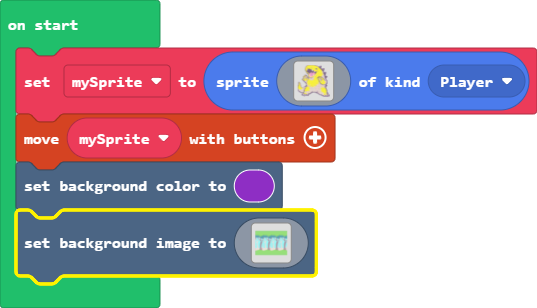
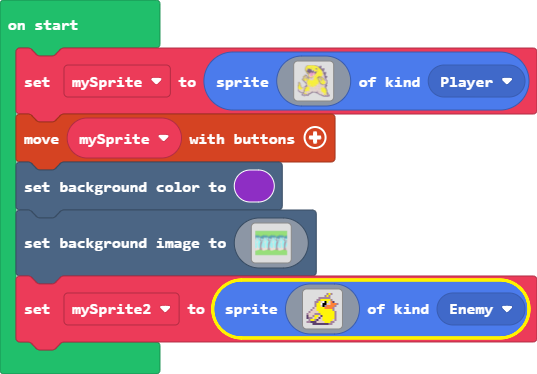
Update main.blocks, main.ts

diff --git a/main.ts b/main.ts
@@ -200,3 +200,21 @@ scene.setBackgroundImage(img`
     7777777777777777777777777777777777777777777777777777777777777777777777777777777777777777777777777777777777777777777777777777777777777777777777777777777777777777
     7777777777777777777777777777777777777777777777777777777777777777777777777777777777777777777777777777777777777777777777777777777777777777777777777777777777777777
     `)
+let mySprite2 = sprites.create(img`
+    . . . . . . . . . . b 5 b . . . 
+    . . . . . . . . . b 5 b . . . . 
+    . . . . . . b b b b b b . . . . 
+    . . . . . b b 5 5 5 5 5 b . . . 
+    . . . . b b 5 d 1 f 5 d 4 c . . 
+    . . . . b 5 5 1 f f d d 4 4 4 b 
+    . . . . b 5 5 d f b 4 4 4 4 b . 
+    . . . b d 5 5 5 5 4 4 4 4 b . . 
+    . . b d d 5 5 5 5 5 5 5 5 b . . 
+    . b d d d d 5 5 5 5 5 5 5 5 b . 
+    b d d d b b b 5 5 5 5 5 5 5 b . 
+    c d d b 5 5 d c 5 5 5 5 5 5 b . 
+    c b b d 5 d c d 5 5 5 5 5 5 b . 
+    . b 5 5 b c d d 5 5 5 5 5 d b . 
+    b b c c c d d d d 5 5 5 b b . . 
+    . . . c c c c c c c c b b . . . 
+    `, SpriteKind.Enemy)
